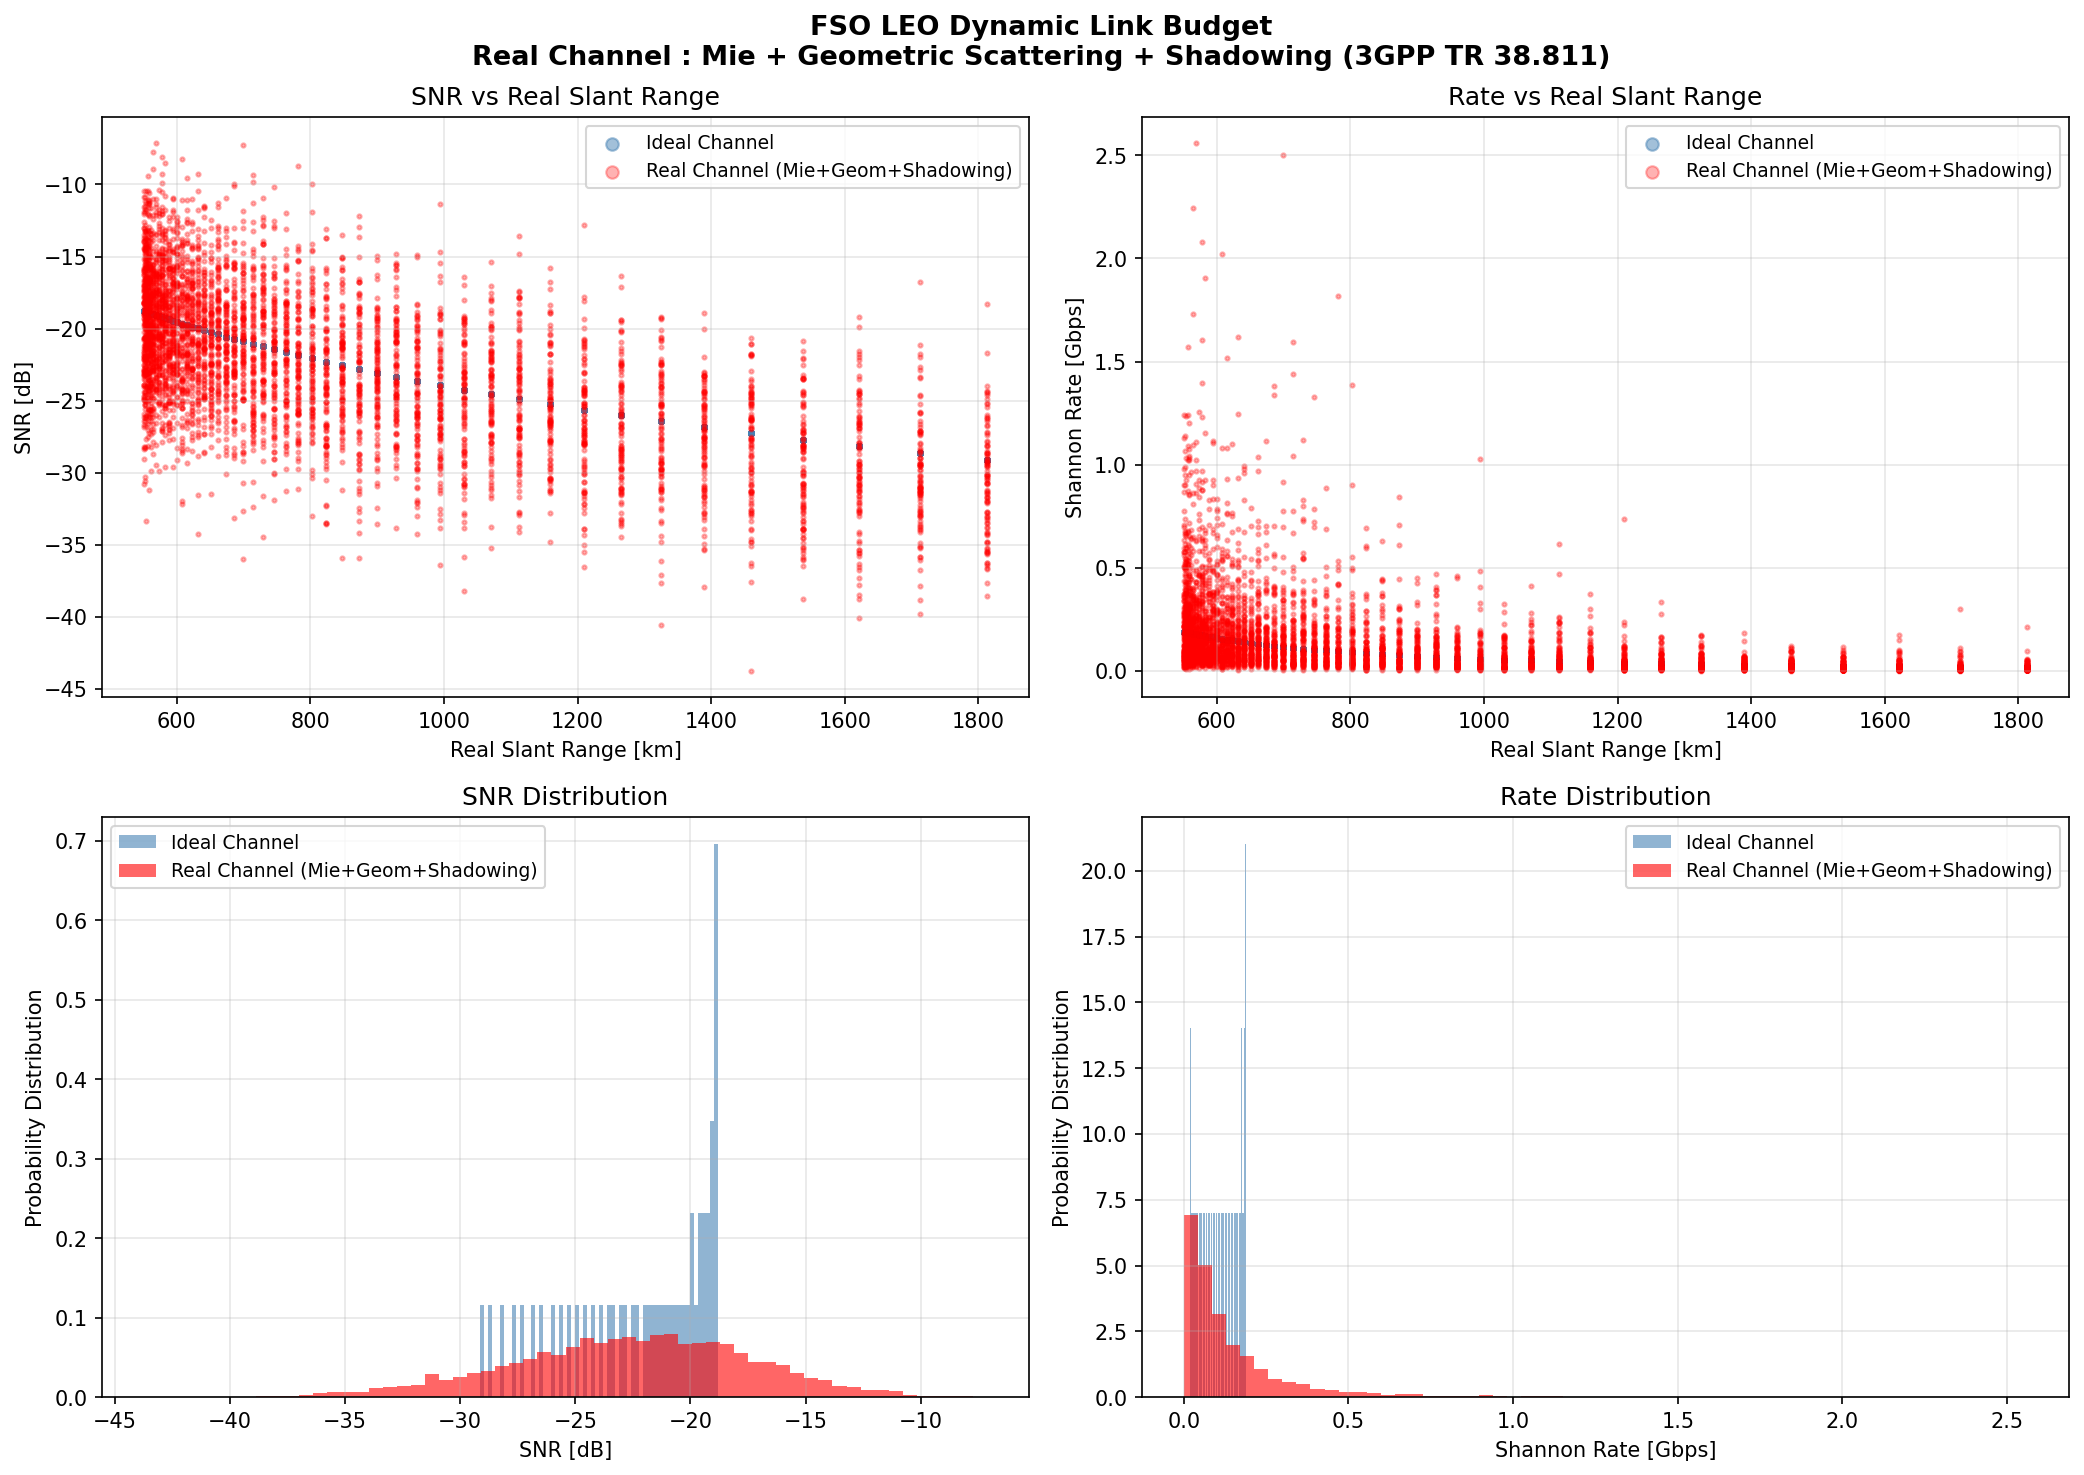
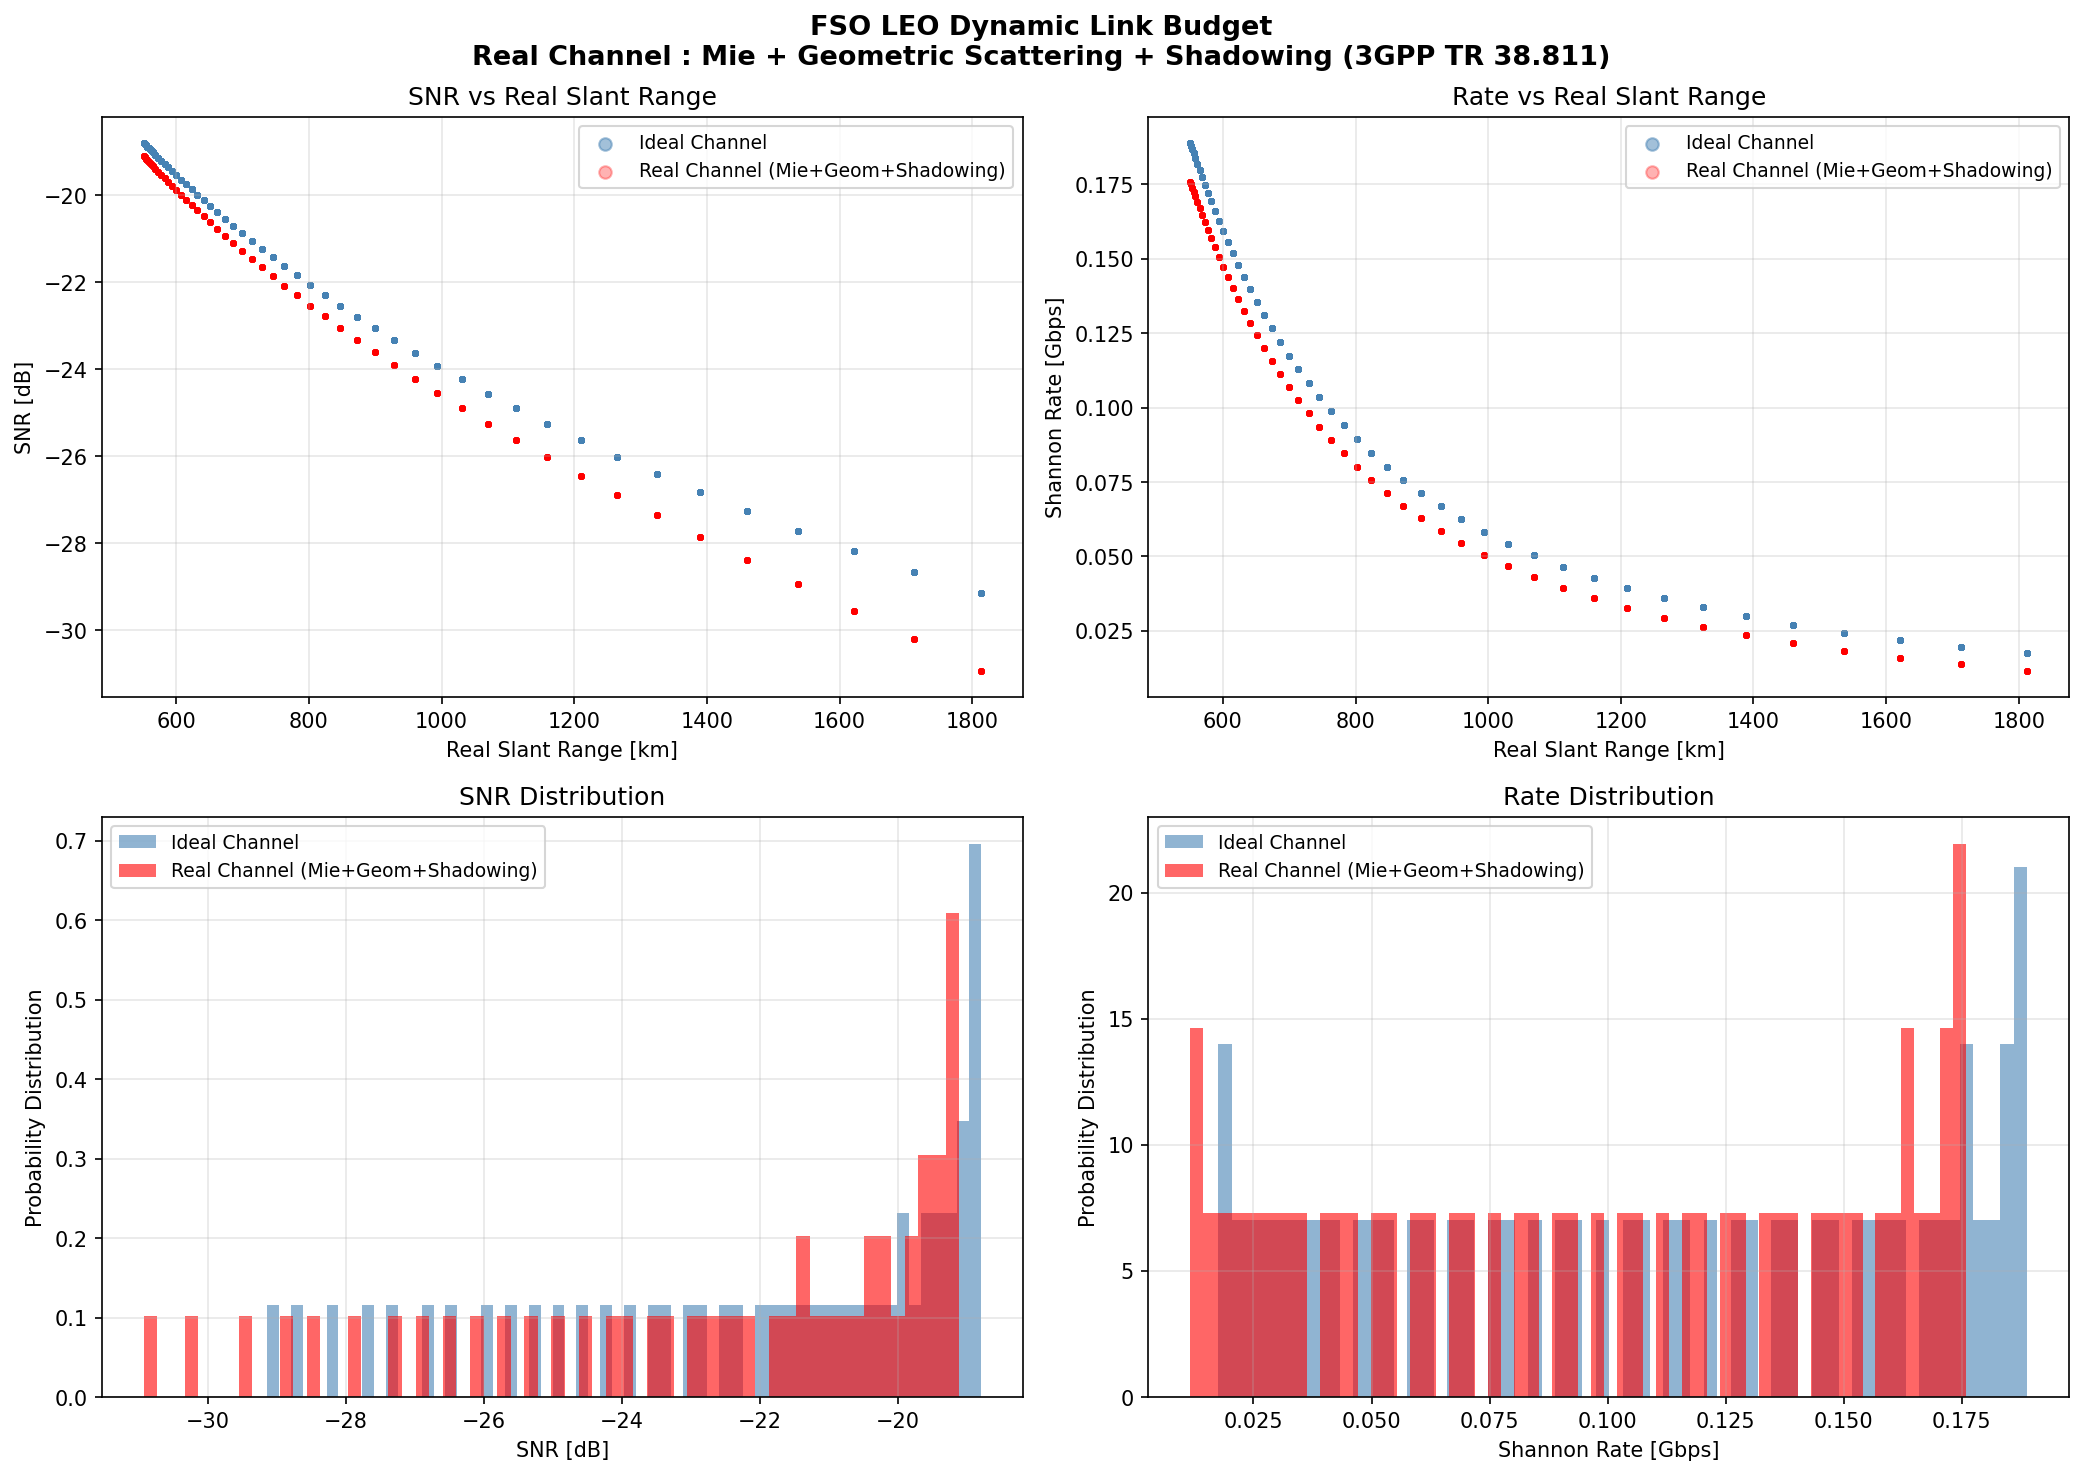
dynamic link budget for optic

diff --git a/dynamic_link_budget/dynamic_link_budget.py b/dynamic_link_budget/dynamic_link_budget.py
@@ -1,21 +1,20 @@
 """
 dynamic_link_budget.py
 ======================
-Canal FSO dynamique — structure calquée sur channel.py.
+Canal FSO dynamique — adapté de channel.py pour les liaisons optiques LEO.
 
-Différences par rapport à channel.py :
-  - Pertes atmosphériques : Mie + Géométrique (LUT FSO) au lieu de ITU-R P.618
-  - Steering vector UPA   : via antenna.py au lieu de l'objet tx
-  - SNR + Shannon         : via snr.py (ajout)
-  - Plots                 : via plots.py (ajout)
-Le reste (H_ideal, H_realistic, large-scale fading 3GPP) est identique.
+Différences par rapport à channel.py (RF) :
+  - Suppression du fading à grande échelle 3GPP (load_large_scale_model)
+    → non pertinent pour FSO optique
+  - Suppression ITU-R P.618 (RF)
+    → remplacé par ITU-R P.1622 : Mie + Géométrique via LUT FSO
+  - Steering vector UPA via antenna.py
+  - SNR + Shannon via snr.py
 """
 
 import numpy as np
-
 from optical_link_budget_paper.atmosphere import mie, geometric
 from optical_link_budget_paper.link import budget
-from channel_model.load_large_scale_model import load_large_scale_model
 from dynamic_link_budget.antenna import upa_steering_vector
 from dynamic_link_budget.snr import compute_snr_dB, compute_shannon_rate
 
@@ -27,26 +26,30 @@ class DynamicLinkBudget:
 
         # ── Paramètres optiques fixes ──────────────────────────────────
         self.lam_m   = link_config["lam_um"] * 1e-6
-        self.G_R     = budget.receive_gain(link_config["Dr_m"],
-                                           link_config["lam_um"])
+        self.G_R     = budget.receive_gain(
+                           link_config["Dr_m"], link_config["lam_um"])
         noise_dBm    = link_config.get("noise_dBm", -100.0)
         self.noise_W = 10 ** (noise_dBm / 10) * 1e-3
 
-        # ── Large-scale fading 3GPP TR 38.811 — identique à channel.py ─
-        self.lsm = load_large_scale_model(
-            link_config.get("channel_scenario", "urban")
-        )
-
-        # ── LUT pertes atmosphériques FSO — remplace itur ──────────────
+        # ── LUT pertes atmosphériques FSO (ITU-R P.1622) ───────────────
+        # Remplace itur P.618 de channel.py
         self._att_lut_dB       = None
         self._att_lut_elev_deg = None
 
     # ──────────────────────────────────────────────────────────────────
-    # LUT FSO — remplace precompute_attenuation_lut() de channel.py
+    # LUT ITU-R P.1622 — Mie + Géométrique
     # ──────────────────────────────────────────────────────────────────
 
-    def precompute_lut(self, elevation_grid_deg=None, lut_cache_path=None):
-        """Précalcule Mie + Géométrique sur grille d'élévations."""
+    def precompute_lut(self, elevation_grid_deg=None,
+                       lut_cache_path=None) -> None:
+        """
+        Précalcule les pertes atmosphériques FSO (ITU-R P.1622)
+        sur une grille d'élévations.
+
+        Remplace precompute_attenuation_lut() de channel.py :
+          - channel.py  : itur P.618, dépendance géographique (U x G)
+          - ici         : Mie + Géométrique P.1622, 1D (G,)
+        """
         if elevation_grid_deg is None:
             elevation_grid_deg = np.arange(10, 90.5, 0.5, dtype=np.float64)
 
@@ -56,7 +59,7 @@ class DynamicLinkBudget:
             if os.path.exists(lut_cache_path) and os.path.exists(meta_path):
                 self._att_lut_dB       = np.load(lut_cache_path)
                 self._att_lut_elev_deg = np.load(meta_path)
-                print(">>> LUT FSO chargée depuis le cache")
+                print(">>> LUT FSO (P.1622) chargée depuis le cache")
                 return
 
         cfg    = self.cfg
@@ -64,8 +67,10 @@ class DynamicLinkBudget:
         for i, el in enumerate(elevation_grid_deg):
             losses[i] = (
                 mie.attenuation_dB(cfg["lam_um"], cfg["hE_km"], el) +
-                geometric.attenuation_dB(el, cfg["LW"], cfg["N_droplets"],
-                    cfg["lam_um"], cfg["hA_km"], cfg["hE_km"], cfg["phi"])
+                geometric.attenuation_dB(
+                    el, cfg["LW"], cfg["N_droplets"],
+                    cfg["lam_um"], cfg["hA_km"],
+                    cfg["hE_km"], cfg["phi"])
             )
 
         self._att_lut_dB       = losses
@@ -74,10 +79,13 @@ class DynamicLinkBudget:
         if lut_cache_path is not None:
             np.save(lut_cache_path, losses)
             np.save(str(lut_cache_path) + ".elev.npy", elevation_grid_deg)
-        print(f">>> LUT FSO calculée : {losses.size} points")
+        print(f">>> LUT FSO (P.1622) calculée : {losses.size} points")
 
     def _lookup_fso_losses_dB(self, elevation_deg):
-        """Interpolation 1D dans le LUT — identique à channel.py."""
+        """
+        Interpolation 1D dans le LUT.
+        Identique à _lookup_attenuation_dB() de channel.py.
+        """
         grid   = self._att_lut_elev_deg
         elev   = np.clip(np.asarray(elevation_deg, dtype=np.float64),
                          grid[0], grid[-1])
@@ -85,15 +93,21 @@ class DynamicLinkBudget:
         idx_lo = np.floor(idx_f).astype(np.int64)
         idx_hi = np.minimum(idx_lo + 1, grid.size - 1)
         frac   = idx_f - idx_lo
-        return (1.0 - frac)*self._att_lut_dB[idx_lo] + frac*self._att_lut_dB[idx_hi]
+        return ((1.0 - frac) * self._att_lut_dB[idx_lo]
+                + frac * self._att_lut_dB[idx_hi])
 
     # ──────────────────────────────────────────────────────────────────
-    # compute() — identique à channel.py sauf pertes itur → FSO
+    # compute() — canal FSO, sans fading 3GPP
     # ──────────────────────────────────────────────────────────────────
 
     def compute(self, ts_index, slant_range_m, az_deg, el_deg):
         """
         Calcule H_ideal, H_realistic, SNR et débit Shannon.
+
+        Par rapport à channel.py :
+          - Supprimé  : large_scale_loss_dB (3GPP TR 38.811)
+          - Supprimé  : p618_total_loss_dB  (ITU-R P.618 RF)
+          - Remplacé  : fso_loss_dB         (ITU-R P.1622 optique)
 
         Paramètres
         ----------
@@ -111,24 +125,19 @@ class DynamicLinkBudget:
         el  = np.asarray(el_deg,        dtype=np.float64)
         az  = np.asarray(az_deg,        dtype=np.float64)
         d   = np.asarray(slant_range_m, dtype=np.float64)
-        U   = el.size
 
         # ══════════════════════════════════════════════════════════════
         # 1. H_IDEAL — identique à channel.py
         # ══════════════════════════════════════════════════════════════
 
-        # Steering vector UPA via antenna.py
-        # remplace tx.compute_tx_radiation_pattern(u, v)
         radiation_pattern = upa_steering_vector(
             az, el,
             self.cfg["N_x"], self.cfg["N_y"],
             self.cfg["d_x"], self.cfg["d_y"],
         )
 
-        # ξ = sqrt(G_R / noise_W) / (4π/λ)
         xi = np.sqrt(self.G_R / self.noise_W) / (4 * np.pi / lam)
 
-        # Garde slant invalide
         slant_ok = np.isfinite(d) & (d > 0)
         safe_d   = np.where(slant_ok, d, np.nan)
         with np.errstate(divide="ignore", invalid="ignore"):
@@ -139,32 +148,8 @@ class DynamicLinkBudget:
         h_ideal = xi * radiation_pattern * phase_path_loss[:, None]
 
         # ══════════════════════════════════════════════════════════════
-        # 2. LARGE-SCALE FADING — identique à channel.py
-        # ══════════════════════════════════════════════════════════════
-
-        elev_clipped = np.clip(el, 10, 90)
-        row_index    = (np.round(elev_clipped, -1) / 10 - 1).astype(int)
-
-        prop_model = self.cfg.get("propagation_model", "los")
-        if prop_model == "los":
-            los_flag = np.ones(U, dtype=bool)
-        else:
-            los_prob = self.lsm["large_scale_fading"]["los_prob"].values[row_index]
-            los_flag = np.random.rand(U) * 100 <= los_prob
-
-        sigma = np.where(
-            los_flag,
-            self.lsm["large_scale_fading"]["sigma_los"].values[row_index],
-            self.lsm["large_scale_fading"]["sigma_nlos"].values[row_index],
-        )
-        large_scale_loss_dB = np.random.randn(U) * sigma
-
-        if prop_model == "nlos":
-            clutter = self.lsm["large_scale_fading"]["cl"].values[row_index]
-            large_scale_loss_dB[~los_flag] += clutter[~los_flag]
-
-        # ══════════════════════════════════════════════════════════════
-        # 3. PERTES FSO — remplace ITU-R P.618 de channel.py
+        # 2. PERTES ATMOSPHÉRIQUES FSO — ITU-R P.1622
+        #    Remplace large_scale_loss + p618 de channel.py
         # ══════════════════════════════════════════════════════════════
 
         if self._att_lut_dB is not None:
@@ -173,18 +158,20 @@ class DynamicLinkBudget:
             cfg = self.cfg
             fso_loss_dB = np.array([
                 mie.attenuation_dB(cfg["lam_um"], cfg["hE_km"], e) +
-                geometric.attenuation_dB(e, cfg["LW"], cfg["N_droplets"],
-                    cfg["lam_um"], cfg["hA_km"], cfg["hE_km"], cfg["phi"])
+                geometric.attenuation_dB(
+                    e, cfg["LW"], cfg["N_droplets"],
+                    cfg["lam_um"], cfg["hA_km"],
+                    cfg["hE_km"], cfg["phi"])
                 for e in el
             ])
 
         # ══════════════════════════════════════════════════════════════
-        # 4. H_REALISTIC — identique à channel.py
+        # 3. H_REALISTIC — identique à channel.py
+        #    total_loss = fso_loss uniquement (plus de 3GPP)
         # ══════════════════════════════════════════════════════════════
 
-        total_loss_dB = large_scale_loss_dB + fso_loss_dB
-        loss_scaling  = 1.0 / np.sqrt(10 ** (0.1 * total_loss_dB))
-        h_realistic   = h_ideal * loss_scaling[:, None]
+        loss_scaling = 1.0 / np.sqrt(10 ** (0.1 * fso_loss_dB))
+        h_realistic  = h_ideal * loss_scaling[:, None]
 
         bad = ~slant_ok
         if bad.any():
@@ -192,7 +179,7 @@ class DynamicLinkBudget:
             h_realistic[bad, :] = 0.0
 
         # ══════════════════════════════════════════════════════════════
-        # 5. SNR ET SHANNON — via snr.py (ajout par rapport à channel.py)
+        # 4. SNR ET SHANNON — via snr.py
         # ══════════════════════════════════════════════════════════════
 
         B = self.cfg.get("bandwidth_hz", 10e9)
